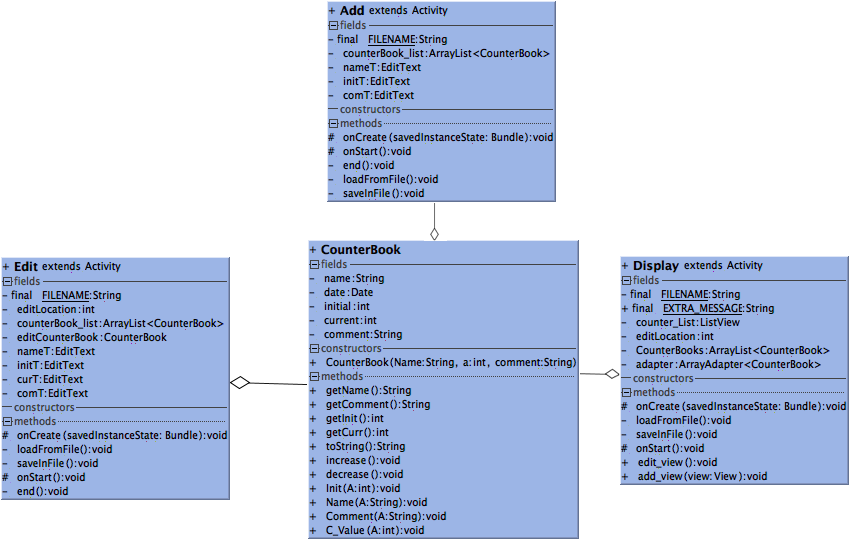
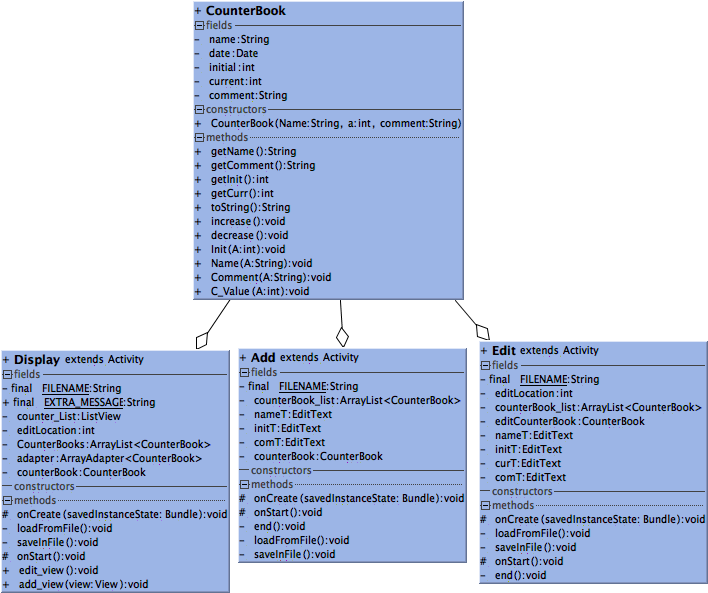
final4

diff --git a/app/src/main/java/com/example/feiyang_countbook/Display.java b/app/src/main/java/com/example/feiyang_countbook/Display.java
@@ -37,6 +37,7 @@ public class Display extends Activity {
     private int editLocation=-1;
     private ArrayList<CounterBook> CounterBooks;
     private ArrayAdapter<CounterBook> adapter;
+    private CounterBook counterBook;
 
     protected void onCreate(Bundle savedInstanceState) {
         super.onCreate(savedInstanceState);

diff --git a/app/src/main/java/com/example/feiyang_countbook/Add.java b/app/src/main/java/com/example/feiyang_countbook/Add.java
@@ -32,7 +32,7 @@ public class Add extends Activity {
     private EditText nameT;
     private EditText initT;
     private EditText comT;
-
+    private CounterBook counterBook;
     protected void onCreate(Bundle savedInstanceState) {
         super.onCreate(savedInstanceState);
         setContentView(R.layout.add_counter);
